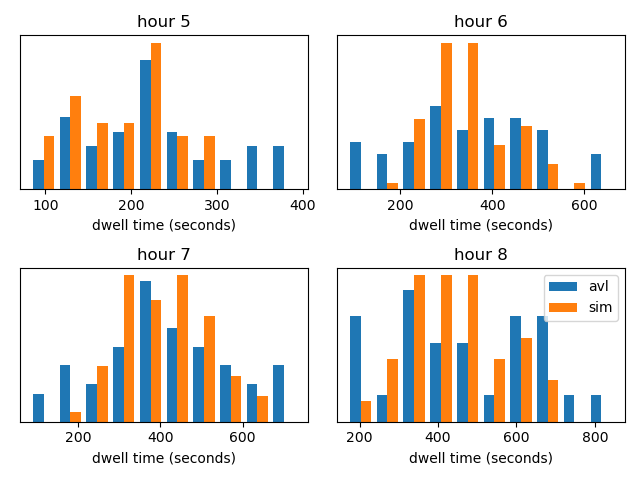
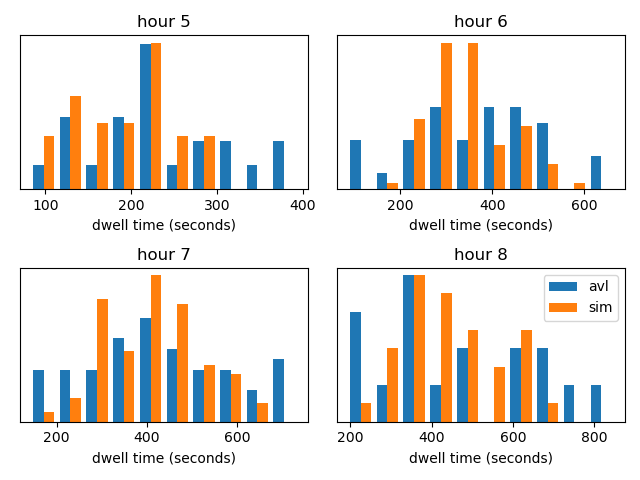
calibrate dwell, run t, layover

diff --git a/src/04_SIMULATION/post_process.py b/src/04_SIMULATION/post_process.py
@@ -9,6 +9,68 @@ from datetime import timedelta
 from pre_process import get_interval, remove_outliers
 
 
+def validate_trip_t_outbound(avl_df, sim_df, start_time, end_time, stops, path_trip_t, path_dwell_t, dates):
+    trip_t_avl, dwell_t_avl = trip_t_outbound(avl_df, start_time, end_time, 60, stops, 'avl_arr_sec',
+                                              'avl_dep_sec', is_avl=True, dates=dates)
+    trip_t_sim, dwell_t_sim = trip_t_outbound(sim_df, start_time, end_time, 60, stops, 'arr_sec',
+                                              'dep_sec')
+    plot_calib_hist(trip_t_avl, trip_t_sim, 5, path_trip_t, 'total trip time (seconds)')
+    plot_calib_hist(dwell_t_avl, dwell_t_sim, 5, path_dwell_t, 'dwell time (seconds)')
+    return
+
+
+def trip_t_outbound(df_out, start_time, end_time, interval_length, stops_out, col_arr_t, col_dep_t,
+                    is_avl=False, dates=None):
+    focus_df_out = df_out[df_out['stop_sequence'] == 1].copy()
+    focus_df_out = focus_df_out[focus_df_out['schd_sec'] < end_time]
+    focus_df_out = focus_df_out[focus_df_out['schd_sec'] >= start_time]
+    if is_avl:
+        focus_df_out = focus_df_out[focus_df_out['stop_id'] == int(stops_out[0])]
+    else:
+        focus_df_out = focus_df_out[focus_df_out['stop_id'] == stops_out[0]]
+    focus_df_out = focus_df_out.sort_values(by='schd_sec')
+    focus_trips = focus_df_out['trip_id'].unique().tolist()
+
+    interval0 = get_interval(start_time, interval_length)
+    interval1 = get_interval(end_time, interval_length)
+    trip_t = [[] for _ in range(interval0, interval1)]
+    dwell_t = [[] for _ in range(interval0, interval1)]
+    if is_avl:
+        nr_days = len(dates)
+    else:
+        nr_days = df_out['replication'].max()
+    for i in range(nr_days):
+        if is_avl:
+            day_df = df_out[df_out['avl_arr_time'].astype(str).str[:10] == dates[i]]
+        else:
+            day_df = df_out[df_out['replication'] == i + 1]
+        for trip in focus_trips:
+            trip_df = day_df[day_df['trip_id'] == trip]
+            t0 = trip_df[trip_df['stop_sequence'] == 1]
+            t1 = trip_df[trip_df['stop_sequence'] == 67]
+            if not t0.empty and not t1.empty:
+                t0 = t0.iloc[0]
+                t1 = t1.iloc[0]
+                interval = get_interval(t0['schd_sec'], interval_length)
+                dep_t = t0[col_dep_t].astype(int)
+                arr_t = t1[col_arr_t].astype(int)
+                trip_t[interval - interval0].append(arr_t - dep_t)
+
+                mid_route_df = trip_df[(trip_df['stop_sequence'] != 1) & (trip_df['stop_sequence'] != 67)]
+                if is_avl:
+                    mid_route_df = mid_route_df.drop_duplicates(subset='stop_sequence', keep='first')
+                if mid_route_df.shape[0] == 67 - 2:
+                    mid_route_df['dwell_t'] = mid_route_df[col_dep_t] - mid_route_df[col_arr_t]
+                    dwell_t[interval - interval0].append(mid_route_df['dwell_t'].sum())
+    if is_avl:
+        for i in range(interval1 - interval0):
+            if trip_t[i]:
+                trip_t[i] = remove_outliers(np.array(trip_t[i])).tolist()
+            if dwell_t[i]:
+                dwell_t[i] = remove_outliers(np.array(dwell_t[i])).tolist()
+    return trip_t, dwell_t
+
+
 def validate_delay_inbound(avl_df, sim_df, start_t_sec, end_t_sec, start_interval, interval_mins=60):
     start_interval = 5
     arr_delays_long, arr_delays_short, dep_delays_long, dep_delays_short = delay_inbound(avl_df, start_t_sec,
@@ -93,7 +155,8 @@ def validate_cv_hw_outbound(avl_df, sim_df, start_t_sec, end_t_sec, interval_min
 
 def delay_inbound(trips_df, start_time, end_time, delay_interval_length, col_arr_t, col_dep_t, terminals_short,
                   terminals_long, outlier_removal=False):
-    trips_df['stop_id'] = trips_df['stop_id'].astype(str)
+    trips_df2 = trips_df.copy()
+    trips_df2['stop_id'] = trips_df2['stop_id'].astype(str)
 
     end_terminal_id = terminals_short[1][0]
     terminal_seq_long = terminals_long[1][1]
@@ -102,11 +165,11 @@ def delay_inbound(trips_df, start_time, end_time, delay_interval_length, col_arr
     arr_delays_long = []
     arr_delays_short = []
     # arrivals
-    arr_long_df = trips_df[trips_df['stop_id'] == end_terminal_id]
+    arr_long_df = trips_df2[trips_df2['stop_id'] == end_terminal_id]
     arr_long_df = arr_long_df[arr_long_df['stop_sequence'] == terminal_seq_long]
     arr_long_df[col_arr_t] = arr_long_df[col_arr_t] % 86400
 
-    arr_short_df = trips_df[trips_df['stop_id'] == end_terminal_id]
+    arr_short_df = trips_df2[trips_df2['stop_id'] == end_terminal_id]
     arr_short_df = arr_short_df[arr_short_df['stop_sequence'] == terminal_seq_short]
     arr_short_df[col_arr_t] = arr_short_df[col_arr_t] % 86400
 
@@ -116,11 +179,11 @@ def delay_inbound(trips_df, start_time, end_time, delay_interval_length, col_arr
     dep_delays_long = []
     dep_delays_short = []
     # departures
-    dep_long_df = trips_df[trips_df['stop_id'] == start_terminal_id_long]
+    dep_long_df = trips_df2[trips_df2['stop_id'] == start_terminal_id_long]
     dep_long_df = dep_long_df[dep_long_df['stop_sequence'] == 1]
     dep_long_df[col_dep_t] = dep_long_df[col_dep_t] % 86400
 
-    dep_short_df = trips_df[trips_df['stop_id'] == start_terminal_id_short]
+    dep_short_df = trips_df2[trips_df2['stop_id'] == start_terminal_id_short]
     dep_short_df = dep_short_df[dep_short_df['stop_sequence'] == 1]
     dep_short_df[col_dep_t] = dep_short_df[col_dep_t] % 86400
 
@@ -170,21 +233,22 @@ def delay_inbound(trips_df, start_time, end_time, delay_interval_length, col_arr
 
 def delay_outbound(trips_df, start_time, end_time, delay_interval_length, col_arr_t, col_dep_t, terminals_info,
                    outlier_removal=False):
-    trips_df['stop_id'] = trips_df['stop_id'].astype(str)
+    trips_df2 = trips_df.copy()
+    trips_df2['stop_id'] = trips_df2['stop_id'].astype(str)
 
     end_terminal_id = terminals_info[1][0]
     terminal_seq_long = terminals_info[1][1]
 
     arr_delays = []
     # arrivals
-    arr_long_df = trips_df[trips_df['stop_id'] == end_terminal_id]
+    arr_long_df = trips_df2[trips_df2['stop_id'] == end_terminal_id]
     arr_long_df = arr_long_df[arr_long_df['stop_sequence'] == terminal_seq_long]
     arr_long_df[col_arr_t] = arr_long_df[col_arr_t] % 86400
     start_terminal_id_long = terminals_info[0][0]
 
     dep_delays = []
     # departures
-    dep_long_df = trips_df[trips_df['stop_id'] == start_terminal_id_long]
+    dep_long_df = trips_df2[trips_df2['stop_id'] == start_terminal_id_long]
     dep_long_df = dep_long_df[dep_long_df['stop_sequence'] == 1]
     dep_long_df[col_dep_t] = dep_long_df[col_dep_t] % 86400
 
@@ -241,12 +305,13 @@ def cv_hw(trip_record_df, start_time, end_time, interval_length, stops):
 
 
 def cv_hw_from_avl(avl_df, start_time, end_time, interval_length, stops,  dates):
-    avl_df['stop_id'] = avl_df['stop_id'].astype(str)
+    avl_df2 = avl_df.copy()
+    avl_df2['stop_id'] = avl_df2['stop_id'].astype(str)
     interval0 = get_interval(start_time, interval_length)
     interval1 = get_interval(end_time, interval_length)
     hws = [[[] for _ in range(len(stops))] for _ in range(interval0, interval1)]
     for d in dates:
-        date_df = avl_df[avl_df['avl_arr_time'].astype(str).str[:10] == d]
+        date_df = avl_df2[avl_df2['avl_arr_time'].astype(str).str[:10] == d]
         for interval in range(interval0, interval1):
             temp_df = date_df[date_df['schd_sec'] >= interval * interval_length * 60]
             temp_df = temp_df[temp_df['schd_sec'] <= (interval + 1) * interval_length * 60]

diff --git a/src/04_SIMULATION/scratch2.py b/src/04_SIMULATION/scratch2.py
@@ -4,83 +4,15 @@ import matplotlib.pyplot as plt
 from constants import DATES, START_TIME_SEC, END_TIME_SEC
 from input import STOPS_OUTBOUND
 from pre_process import get_interval, remove_outliers
-from post_process import plot_calib_hist, validate_delay_outbound, validate_delay_inbound, validate_cv_hw_outbound
+from post_process import plot_calib_hist, validate_delay_outbound, validate_delay_inbound, validate_cv_hw_outbound, validate_trip_t_outbound, trip_t_outbound
 
-sim_df = pd.read_pickle('out/NC/0524-153428-trip_record_outbound.pkl')
+sim_df_out = pd.read_pickle('out/NC/0524-153428-trip_record_outbound.pkl')
 avl_df = pd.read_csv('in/raw/rt20_avl.csv')
 sim_df_in = pd.read_pickle('out/NC/0524-153428-trip_record_inbound.pkl')
 
-# trip ids between focus start-end
-# avl
-focus_avl_df = avl_df[avl_df['stop_sequence'] == 1]
-focus_avl_df = focus_avl_df[focus_avl_df['stop_id'] == int(STOPS_OUTBOUND[0])]
-focus_avl_df = focus_avl_df[focus_avl_df['schd_sec'] < END_TIME_SEC]
-focus_avl_df = focus_avl_df[focus_avl_df['schd_sec'] >= START_TIME_SEC]
-focus_avl_df = focus_avl_df.sort_values(by='schd_sec')
-avl_focus_trips = focus_avl_df['trip_id'].unique().tolist()
-
-focus_sim_df = sim_df[sim_df['stop_sequence'] == 1]
-focus_sim_df = focus_sim_df[focus_sim_df['stop_id'] == STOPS_OUTBOUND[0]]
-focus_sim_df = focus_sim_df[focus_sim_df['schd_sec'] < END_TIME_SEC]
-focus_sim_df = focus_sim_df[focus_sim_df['schd_sec'] >= START_TIME_SEC]
-focus_sim_df = focus_sim_df.sort_values(by='schd_sec')
-sim_focus_trips = focus_sim_df['trip_id'].unique().tolist()
-
-interval_mins = 60
-interval0 = get_interval(START_TIME_SEC, interval_mins)
-interval1 = get_interval(END_TIME_SEC, interval_mins)
-trip_t_avl = [[] for _ in range(interval0, interval1)]
-dwell_t_avl = [[] for _ in range(interval0, interval1)]
-for d in DATES:
-    date_df = avl_df[avl_df['avl_arr_time'].astype(str).str[:10] == d]
-    for trip in avl_focus_trips:
-        trip_df = date_df[date_df['trip_id'] == trip]
-        t0 = trip_df[trip_df['stop_sequence'] == 1]
-        t1 = trip_df[trip_df['stop_sequence'] == 67]
-        if not t0.empty and not t1.empty:
-            t0 = t0.iloc[0]
-            t1 = t1.iloc[0]
-            interval = get_interval(t0['schd_sec'], interval_mins)
-            dep_t = t0['avl_dep_sec'].astype(int)
-            arr_t = t1['avl_arr_sec'].astype(int)
-            trip_t_avl[interval-interval0].append(arr_t-dep_t)
-
-            mid_route_df = trip_df[(trip_df['stop_sequence']!=1) & (trip_df['stop_sequence'] != 67)]
-            mid_route_df = mid_route_df.drop_duplicates(subset='stop_sequence', keep='first')
-            if 67-4 <= mid_route_df.shape[0] <= 67-2:
-                mid_route_df['dwell_t'] = mid_route_df['avl_dep_sec'] - mid_route_df['avl_arr_sec']
-                dwell_t_avl[interval-interval0].append(mid_route_df['dwell_t'].sum())
-            else:
-                lst_stops = mid_route_df['stop_sequence'].tolist()
-for i in range(interval1-interval0):
-    if trip_t_avl[i]:
-        trip_t_avl[i] = remove_outliers(np.array(trip_t_avl[i])).tolist()
-    if dwell_t_avl[i]:
-        dwell_t_avl[i] = remove_outliers(np.array(dwell_t_avl[i])).tolist()
-
-trip_t_sim = [[] for _ in range(interval0, interval1)]
-dwell_t_sim = [[] for _ in range(interval0, interval1)]
-nr_replications = sim_df['replication'].max()
-for i in range(nr_replications):
-    rep_df = sim_df[sim_df['replication'] == i+1]
-    for trip in sim_focus_trips:
-        trip_df = rep_df[rep_df['trip_id'] == trip]
-        t0 = trip_df[trip_df['stop_sequence'] == 1]
-        t1 = trip_df[trip_df['stop_sequence'] == 67]
-        if not t0.empty and not t1.empty:
-            t0 = t0.iloc[0]
-            t1 = t1.iloc[0]
-            interval = get_interval(t0['schd_sec'], interval_mins)
-            dep_t = t0['dep_sec'].astype(int)
-            arr_t = t1['arr_sec'].astype(int)
-            trip_t_sim[interval - interval0].append(arr_t - dep_t)
-            mid_route_df = trip_df[(trip_df['stop_sequence']!=1) & (trip_df['stop_sequence'] != 67)]
-            if mid_route_df.shape[0] == 67-2:
-                mid_route_df['dwell_t'] = mid_route_df['dep_sec'] - mid_route_df['arr_sec']
-                dwell_t_sim[interval-interval0].append(mid_route_df['dwell_t'].sum())
-
-validate_delay_outbound(avl_df, sim_df, START_TIME_SEC, END_TIME_SEC)
+validate_delay_outbound(avl_df, sim_df_out, START_TIME_SEC, END_TIME_SEC)
 validate_delay_inbound(avl_df, sim_df_in, START_TIME_SEC, END_TIME_SEC, 5)
-validate_cv_hw_outbound(avl_df, sim_df, START_TIME_SEC, END_TIME_SEC, 60, STOPS_OUTBOUND, DATES)
-plot_calib_hist(trip_t_avl, trip_t_sim, 5, 'out/compare/validate/trip_t_dist_out.png', 'total trip time (seconds)')
-plot_calib_hist(dwell_t_avl, dwell_t_sim, 5, 'out/compare/validate/dwell_t_dist_out.png', 'dwell time (seconds)')
+validate_cv_hw_outbound(avl_df, sim_df_out, START_TIME_SEC, END_TIME_SEC, 60, STOPS_OUTBOUND, DATES)
+validate_trip_t_outbound(avl_df, sim_df_out, START_TIME_SEC, END_TIME_SEC, STOPS_OUTBOUND,
+                         'out/compare/validate/trip_t_dist_out.png', 'out/compare/validate/dwell_t_dist_out.png',
+                         DATES)
